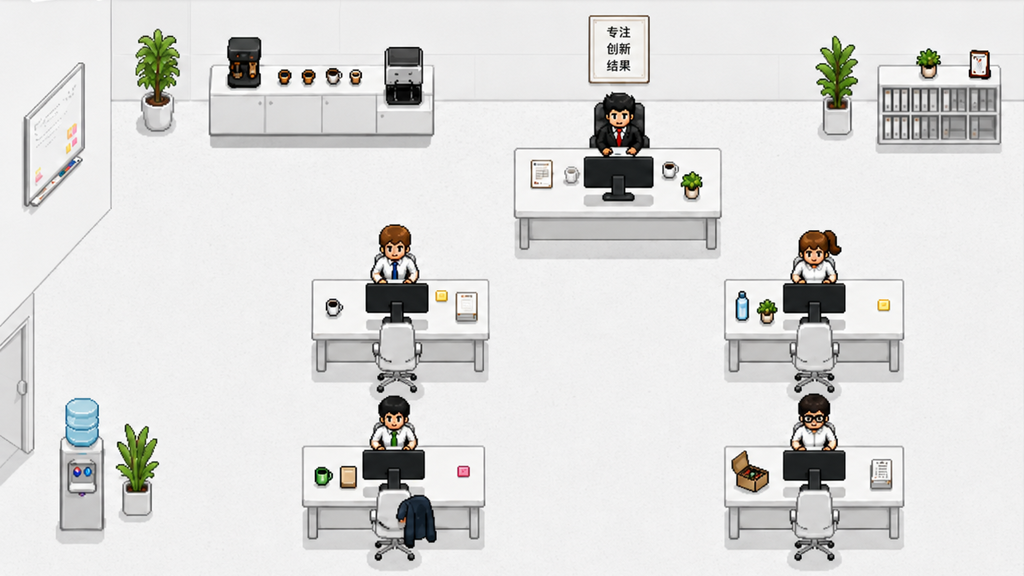
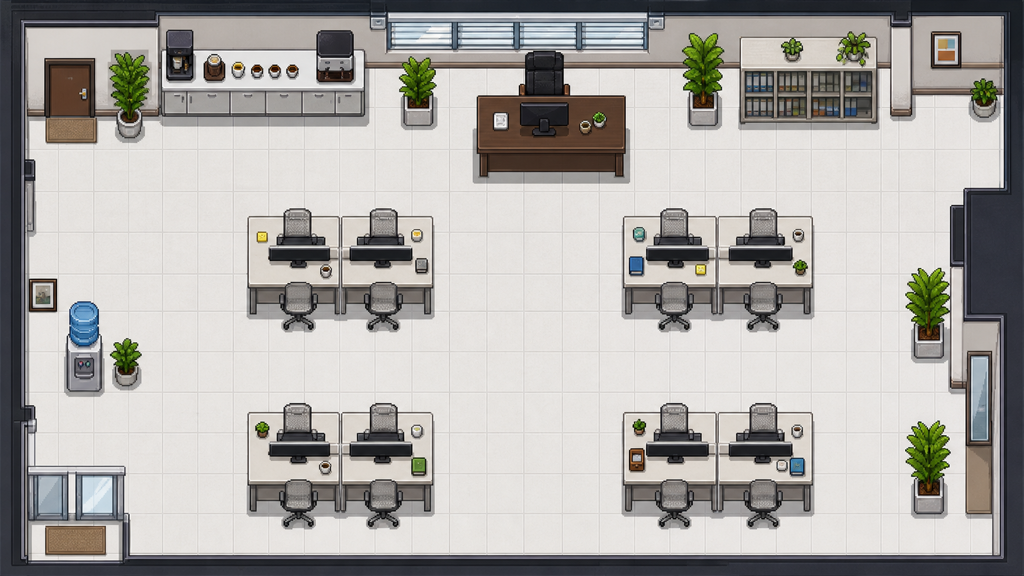
Use top-down office grid

diff --git a/office-map.js b/office-map.js
@@ -18,27 +18,27 @@ const POSITION_EPSILON = 0.001;
 const grid = {
   width: 20,
   height: 14,
-  originX: 512,
+  originX: 112,
   originY: 44,
-  tileWidth: 64,
-  tileHeight: 32,
+  tileWidth: 43,
+  tileHeight: 36,
 };
 
-const officeDoor = { x: 0, y: 10 };
-const defaultTarget = { x: 13, y: 9 };
+const officeDoor = { x: 0, y: 13 };
+const defaultTarget = { x: 11, y: 8 };
 
-// 0 = empty ground, 1 = obstacle. This is the pure logic layer.
+// 0 = walkable floor, 1 = obstacle. These cells match the top-down map overlay.
 const collisionMap = createCollisionMap(grid.width, grid.height, [
-  { name: "coffee bar", fromX: 2, fromY: 0, toX: 7, toY: 1 },
-  { name: "boss desk", fromX: 9, fromY: 2, toX: 13, toY: 4 },
-  { name: "left desk upper", fromX: 4, fromY: 6, toX: 8, toY: 8 },
-  { name: "left desk lower", fromX: 4, fromY: 10, toX: 8, toY: 12 },
-  { name: "right desk upper", fromX: 13, fromY: 6, toX: 17, toY: 8 },
-  { name: "right desk lower", fromX: 13, fromY: 10, toX: 17, toY: 12 },
-  { name: "file cabinet", fromX: 17, fromY: 0, toX: 19, toY: 2 },
-  { name: "left door wall", cells: [[0, 3], [0, 4], [0, 5], [0, 6], [0, 7], [0, 8]] },
-  { name: "water cooler", cells: [[0, 11], [0, 12], [1, 12]] },
-  { name: "plants", cells: [[0, 1], [1, 1], [1, 11], [18, 2], [19, 1]] },
+  { name: "top-left counter", fromX: 2, fromY: 0, toX: 6, toY: 2 },
+  { name: "boss desk", fromX: 8, fromY: 1, toX: 12, toY: 3 },
+  { name: "file cabinets", fromX: 14, fromY: 0, toX: 18, toY: 2 },
+  { name: "left upper desks", fromX: 4, fromY: 5, toX: 8, toY: 7 },
+  { name: "left lower desks", fromX: 4, fromY: 10, toX: 8, toY: 12 },
+  { name: "right upper desks", fromX: 12, fromY: 5, toX: 16, toY: 7 },
+  { name: "right lower desks", fromX: 12, fromY: 10, toX: 16, toY: 12 },
+  { name: "left wall", cells: [[0, 2], [0, 3], [0, 4], [0, 5], [0, 6], [0, 7], [0, 8]] },
+  { name: "water cooler", cells: [[0, 9], [1, 9], [0, 10]] },
+  { name: "plants", cells: [[0, 1], [1, 1], [1, 10], [18, 6], [18, 11]] },
 ]);
 
 let showGrid = true;
@@ -142,7 +142,7 @@ class Character {
   }
 
   draw(renderContext) {
-    const screen = gridToIsometric(this.renderX, this.renderY);
+    const screen = gridToScreen(this.renderX, this.renderY);
     const width = 82;
     const height = 98;
     const x = screen.x - width * 0.5;
@@ -209,32 +209,18 @@ function canMove(x, y) {
   return x >= 0 && x < grid.width && y >= 0 && y < grid.height && collisionMap[y][x] === TILE_EMPTY;
 }
 
-function gridToIsometric(gridX, gridY) {
+function gridToScreen(gridX, gridY) {
   return {
-    x: grid.originX + (gridX - gridY) * (grid.tileWidth / 2),
-    y: grid.originY + (gridX + gridY) * (grid.tileHeight / 2),
+    x: grid.originX + gridX * grid.tileWidth + grid.tileWidth / 2,
+    y: grid.originY + gridY * grid.tileHeight + grid.tileHeight / 2,
   };
 }
 
 function screenToGrid(screenX, screenY) {
-  let bestCell = null;
-  let bestDistance = Infinity;
-
-  for (let y = 0; y < grid.height; y += 1) {
-    for (let x = 0; x < grid.width; x += 1) {
-      const center = gridToIsometric(x, y);
-      const dx = center.x - screenX;
-      const dy = center.y - screenY;
-      const distance = dx * dx + dy * dy;
-
-      if (distance < bestDistance) {
-        bestDistance = distance;
-        bestCell = { x, y };
-      }
-    }
-  }
-
-  return bestCell;
+  return {
+    x: Math.floor((screenX - grid.originX) / grid.tileWidth),
+    y: Math.floor((screenY - grid.originY) / grid.tileHeight),
+  };
 }
 
 function findPath(start, goal) {
@@ -362,7 +348,7 @@ function drawGridOverlay() {
         continue;
       }
 
-      drawIsoTile(x, y, isBlocked, inPath);
+      drawGridCell(x, y, isBlocked, inPath);
     }
   }
 
@@ -370,20 +356,10 @@ function drawGridOverlay() {
   drawTargetMarker(targetCell, "#2563eb", "目标");
 }
 
-function drawIsoTile(x, y, isBlocked, inPath) {
-  const center = gridToIsometric(x, y);
-  const points = getTilePoints(center);
+function drawGridCell(x, y, isBlocked, inPath) {
+  const rect = getCellRect(x, y);
 
   ctx.save();
-  ctx.beginPath();
-  points.forEach((point, index) => {
-    if (index === 0) {
-      ctx.moveTo(point.x, point.y);
-    } else {
-      ctx.lineTo(point.x, point.y);
-    }
-  });
-  ctx.closePath();
   ctx.fillStyle = inPath
     ? "rgba(37, 99, 235, 0.25)"
     : isBlocked
@@ -391,20 +367,20 @@ function drawIsoTile(x, y, isBlocked, inPath) {
       : "rgba(34, 197, 94, 0.08)";
   ctx.strokeStyle = isBlocked ? "rgba(185, 28, 28, 0.65)" : "rgba(21, 128, 61, 0.28)";
   ctx.lineWidth = inPath ? 2 : 1;
-  ctx.fill();
-  ctx.stroke();
+  ctx.fillRect(rect.x, rect.y, rect.width, rect.height);
+  ctx.strokeRect(rect.x + 0.5, rect.y + 0.5, rect.width - 1, rect.height - 1);
   ctx.restore();
 }
 
 function drawTargetMarker(cell, color, label) {
-  const center = gridToIsometric(cell.x, cell.y);
+  const center = gridToScreen(cell.x, cell.y);
 
   ctx.save();
   ctx.strokeStyle = color;
   ctx.fillStyle = "rgba(255, 255, 255, 0.84)";
   ctx.lineWidth = 3;
   ctx.beginPath();
-  ctx.ellipse(center.x, center.y + 5, grid.tileWidth * 0.32, grid.tileHeight * 0.28, 0, 0, Math.PI * 2);
+  ctx.arc(center.x, center.y, Math.min(grid.tileWidth, grid.tileHeight) * 0.35, 0, Math.PI * 2);
   ctx.stroke();
   ctx.font = "bold 12px sans-serif";
   ctx.textAlign = "center";
@@ -416,13 +392,13 @@ function drawTargetMarker(cell, color, label) {
   ctx.restore();
 }
 
-function getTilePoints(center) {
-  return [
-    { x: center.x, y: center.y - grid.tileHeight / 2 },
-    { x: center.x + grid.tileWidth / 2, y: center.y },
-    { x: center.x, y: center.y + grid.tileHeight / 2 },
-    { x: center.x - grid.tileWidth / 2, y: center.y },
-  ];
+function getCellRect(x, y) {
+  return {
+    x: grid.originX + x * grid.tileWidth,
+    y: grid.originY + y * grid.tileHeight,
+    width: grid.tileWidth,
+    height: grid.tileHeight,
+  };
 }
 
 function update(deltaTime) {
@@ -495,6 +471,10 @@ function getCanvasPoint(event) {
 canvas.addEventListener("click", (event) => {
   const point = getCanvasPoint(event);
   const cell = screenToGrid(point.x, point.y);
+  if (cell.x < 0 || cell.x >= grid.width || cell.y < 0 || cell.y >= grid.height) {
+    setStatus("状态：目标不在网格内");
+    return;
+  }
   moveTo(cell);
 });
 
@@ -546,7 +526,8 @@ window.officeDebug = Object.freeze({
   grid,
   collisionMap,
   canMove,
-  gridToIsometric,
+  gridToScreen,
+  gridToIsometric: gridToScreen,
   screenToGrid,
   findPath,
   player,

diff --git a/office.html b/office.html
@@ -17,7 +17,7 @@
         <button id="exitOfficeButton" type="button">返回茶水间</button>
         <div class="status-box">
           <p id="officeStatus">状态：待命</p>
-          <p id="officePosition">当前坐标：(1, 10)</p>
+          <p id="officePosition">当前坐标：(2, 10)</p>
           <p id="officeTarget">目标坐标：未选择</p>
           <p><span class="green-text">绿色格</span> = 可通行</p>
           <p><span class="red-text">红色格</span> = 障碍物</p>